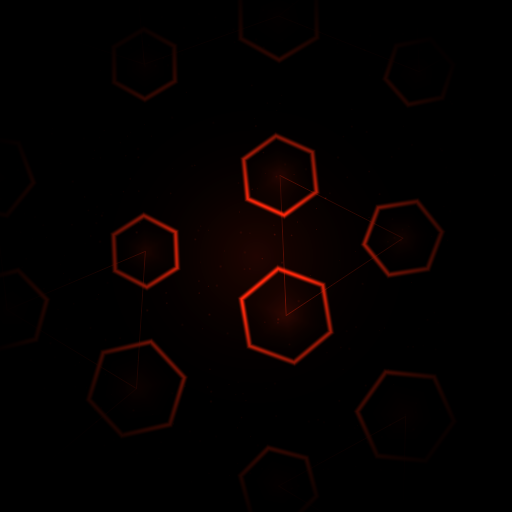
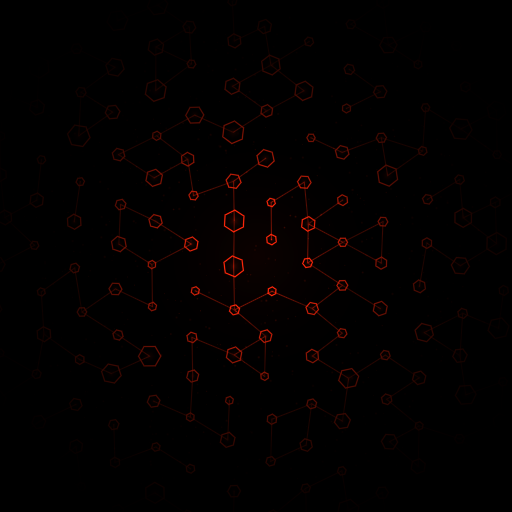
Particle textures: the threads read now
Filaments a touch stronger on Faig's note - width up a fifth, brightness 0.30 to
0.44, contribution to the combined alpha 0.85 to 0.95. Plates untouched.

They earn more than their size suggests. Plates alone are a scatter; the threads
are what makes the cloud one thing moving together, which is the whole
difference between dust and a swarm.

Approved for the first iteration. Shape settled, both profiles generating,
nothing written into a data directory yet.

diff --git a/tools/scripts/make_vfx.py b/tools/scripts/make_vfx.py
@@ -113,7 +113,7 @@ def hex_field(size, cell, dense, seed):
 
     # Filaments: each plate reaches for one or two neighbours, never all of
     # them - a fully connected mesh reads as a net rather than as a swarm.
-    width = max(size / 512.0, 0.6) * (1.1 if dense else 0.9)
+    width = max(size / 512.0, 0.6) * (1.3 if dense else 1.1)
     for i, (cx, cy, radius, _a) in enumerate(centres):
         near = sorted(
             ((np.hypot(cx - ox, cy - oy), ox, oy)
@@ -126,7 +126,7 @@ def hex_field(size, cell, dense, seed):
             line = np.clip(1.0 - d / width, 0.0, 1.0)
             along = np.clip(1.0 - _segment_distance(x, y, cx, cy, cx, cy)
                             / (dist + 1e-3), 0.0, 1.0)
-            threads = np.maximum(threads, line * (0.30 + 0.25 * along))
+            threads = np.maximum(threads, line * (0.44 + 0.26 * along))
 
     for _ in range(int(size * (3.0 if dense else 1.8))):
         mx, my = rng.uniform(0, size, 2)
@@ -135,7 +135,7 @@ def hex_field(size, cell, dense, seed):
         motes = np.maximum(motes, np.clip(1.0 - d / rad, 0.0, 1.0)
                            * rng.uniform(0.12, 0.34))
 
-    return np.clip(plates + threads * (1.0 - plates) * 0.85
+    return np.clip(plates + threads * (1.0 - plates) * 0.95
                    + motes * (1.0 - plates), 0.0, 1.0)
 
 

diff --git a/tools/reports/vfx.md b/tools/reports/vfx.md
@@ -102,6 +102,19 @@ If Corprus needs to stay unmistakable, the cheapest way is **broken plates**:
 half its hexagons missing a side or two, which healthy casting never shows. Same
 material, damaged. Not implemented; it is one branch in the generator.
 
+## Fourth pass: the threads read
+
+Filaments a touch stronger, on Faig's note and nothing else touched: width up a
+fifth, brightness 0.30 to 0.44, and their contribution to the combined alpha
+0.85 to 0.95. The plates are unchanged.
+
+They matter more than their size suggests. The plates alone are a scatter; the
+threads are what makes it one thing moving together, which is the difference
+between dust and a swarm.
+
+**Approved for the first iteration** at this point - shape settled, both builds
+generating, nothing shipped yet.
+
 ## Still open
 
 Whether to ship at all, given that it overrides Vurt's. And the grain shader,
